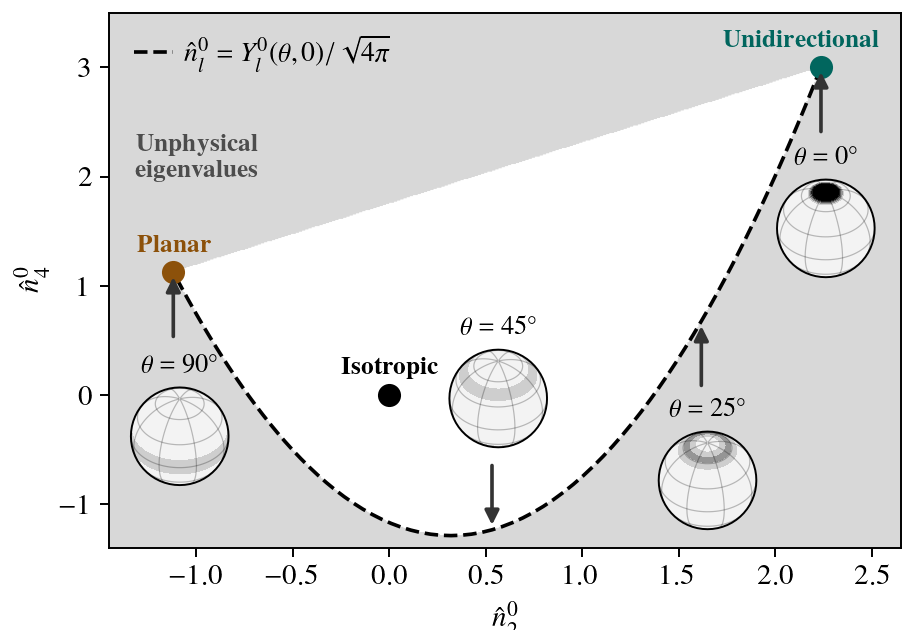
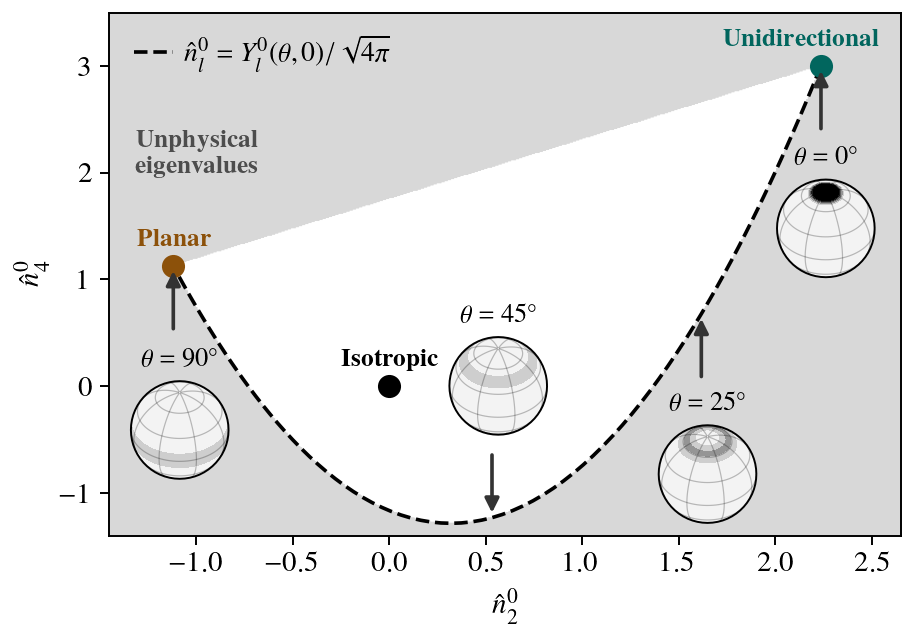
update docs

diff --git a/demo/state-space-validation/ice/state-space-ideal.py b/demo/state-space-validation/ice/state-space-ideal.py
@@ -53,7 +53,7 @@ legkwargs = {'handlelength':1.4, 'framealpha':1.0, 'fancybox':False, 'columnspac
 
 scale = 4.0
 fig = plt.figure(figsize=(1.3*scale,0.9*scale))
-plt.subplots_adjust(left=0.12, right=0.99, top=0.98, bottom=0.13)
+plt.subplots_adjust(left=0.12, right=0.99, top=0.98, bottom=0.15)
 ax = plt.gca()
 xlims, ylims = [-1.45,2.65], [-1.4,3.5]
 sc = np.diff(ylims)/np.diff(xlims)
@@ -174,9 +174,9 @@ if 1:
     lvlmax = 1.42
     ODF_plots = (\
         {'nlm':nlm_ideal[:,I[0]], 'title':r'$\theta=\SI{%i}{\degree}$'%(np.rad2deg(thetavec[I[0]])), 'axloc':(0.83, 0.56), 'darr':arr(-90), 'lvlmax':lvlmax}, \
-        {'nlm':nlm_ideal[:,I[1]], 'title':r'$\theta=\SI{%i}{\degree}$'%(np.rad2deg(thetavec[I[1]])), 'axloc':(0.70, 0.16), 'darr':arr(-90), 'lvlmax':lvlmax}, \
-        {'nlm':nlm_ideal[:,I[2]], 'title':r'$\theta=\SI{%i}{\degree}$'%(np.rad2deg(thetavec[I[2]])), 'axloc':(0.47, 0.29), 'darr':arr(+90), 'lvlmax':lvlmax}, \
-        {'nlm':nlm_ideal[:,I[3]], 'title':r'$\theta=\SI{%i}{\degree}$'%(np.rad2deg(thetavec[I[3]])), 'axloc':(0.12, 0.23), 'darr':arr(-90), 'lvlmax':lvlmax}, \
+        {'nlm':nlm_ideal[:,I[1]], 'title':r'$\theta=\SI{%i}{\degree}$'%(np.rad2deg(thetavec[I[1]])), 'axloc':(0.70, 0.17), 'darr':arr(-90), 'lvlmax':lvlmax}, \
+        {'nlm':nlm_ideal[:,I[2]], 'title':r'$\theta=\SI{%i}{\degree}$'%(np.rad2deg(thetavec[I[2]])), 'axloc':(0.47, 0.31), 'darr':arr(+90), 'lvlmax':lvlmax}, \
+        {'nlm':nlm_ideal[:,I[3]], 'title':r'$\theta=\SI{%i}{\degree}$'%(np.rad2deg(thetavec[I[3]])), 'axloc':(0.12, 0.24), 'darr':arr(-90), 'lvlmax':lvlmax}, \
     )
 
     for ODF in ODF_plots:

diff --git a/docs/cpo-idealized.md b/docs/cpo-idealized.md
@@ -8,8 +8,6 @@ Idealized CPO states where crystallographic axes are
 
 can be expanded in terms of spherical harmonics by using the sifting property of the delta function, $\delta({\hat {\bf r}})$.
 
-![](https://raw.githubusercontent.com/nicholasmr/specfab/main/demo/state-space-validation/ice/state-space-ideal.png#center){: style="width:610px"}
-
 ## Unidirectional distribution
 
 Consider the case where grains are perfectly aligned with $\hat{{\bf v}}$ such that $n({\hat {\bf r}}) = \delta({\hat {\bf r}}-{\hat {\bf v}})$.
@@ -22,7 +20,11 @@ n_l^m
 .
 $$
 
-The above figure shows the resulting distribution, truncated at $L=8$, and the below code demonstrates how to generate this distribution with specfab.
+The figure below shows the resulting unidirectional distribution, truncated at $L=8$, where the white area represents the lowest-order CPO state space given by the normalized components $\hat{n}_2^0 = n_2^0/n_0^0$ and $\hat{n}_4^0 = n_4^0/n_0^0$:
+
+![](https://raw.githubusercontent.com/nicholasmr/specfab/main/demo/state-space-validation/ice/state-space-ideal.png#center){: style="width:570px"}
+
+The code below demonstrates how to generate the distribution with specfab.
 
 ```python
 import numpy as np
@@ -36,7 +38,7 @@ nlm = sf.nlm_ideal(v, colat) # nlm for l <= 8 (higher-order coefficients not cal
 
 ## Planar and circle distribution
 
-Planar and circle distributions follow from averaging the delta function over a desired co-latitude $\theta$ (i.e. the co-latitude where the distribution should be sharply defined), in which case all zonal structure vanishes ($m\neq 0$ components vanish) and we are left with
+Planar and circle distributions follow from averaging the delta function over a desired co-latitude $\theta$ (i.e. the co-latitude where $n(\hat{{\bf r}})$ should be sharply defined), in which case all zonal structure vanishes ($m\neq 0$ components vanish) and we are left with
 
 $$
 n_l^m(\theta) = 
@@ -47,6 +49,6 @@ Y_l^0(\theta, \phi=0) \qquad\text{if}\quad m=0\\
 .
 $$
 
-Here, $\hat{{\bf v}}$ is to be understood as the rotational symmetry axis of the distribution and the co-latitude is defined w.r.t $\hat{{\bf v}}$ (not $\hat{{\bf z}}$).
-The above figure also shows the resulting distributions for different $\theta$, calculated using the same code as above but for nonzero `colat`.
+Here, $\hat{{\bf v}}$ is to be understood as the rotational symmetry axis of $n(\hat{{\bf r}})$ and the co-latitude is defined w.r.t $\hat{{\bf v}}$ (not $\hat{{\bf z}}$).
+The above figure also shows the resulting $n(\hat{{\bf r}})$ for different $\theta$, calculated using the same code as above but for nonzero `colat`.
 

diff --git a/docs/cpo-dynamics-tranisotropic.md b/docs/cpo-dynamics-tranisotropic.md
@@ -263,8 +263,8 @@ However, `sf.M_REG()` is currently only calibrated for $L = 4,6,8,20$ &mdash; th
 
 ## Validation
 
-If the CPO is rotated into an approximatly rotationally-symmetric frame about the $z$-axis, then only $n_l^0$ components are nonzero.
-This conviniently allows validating modelled CPO processes by comparing modelled to observed correlations between, e.g., the lowest-order normalized components $\hat{n}_2^0 \equiv n_2^0/n_0^0$ and $\hat{n}_4^0 \equiv n_4^0/n_0^0$.
+If the CPO is rotated into an approximately rotationally-symmetric frame about the $z$-axis, then only $n_l^0$ components are nonzero.
+This conveniently allows validating modelled CPO processes by comparing modelled to observed correlations between, e.g., the lowest-order normalized components $\hat{n}_2^0 = n_2^0/n_0^0$ and $\hat{n}_4^0 = n_4^0/n_0^0$.
 The below plot shows the observed correlation structure (markers) compared to the above CPO model(s) for different modes of deformation, suggesting that modelled CPO processes capture observations reasonably well.
 
 ![](https://raw.githubusercontent.com/nicholasmr/specfab/main/demo/state-space-validation/ice/state-space-validation.png){: style="width:700px"}
